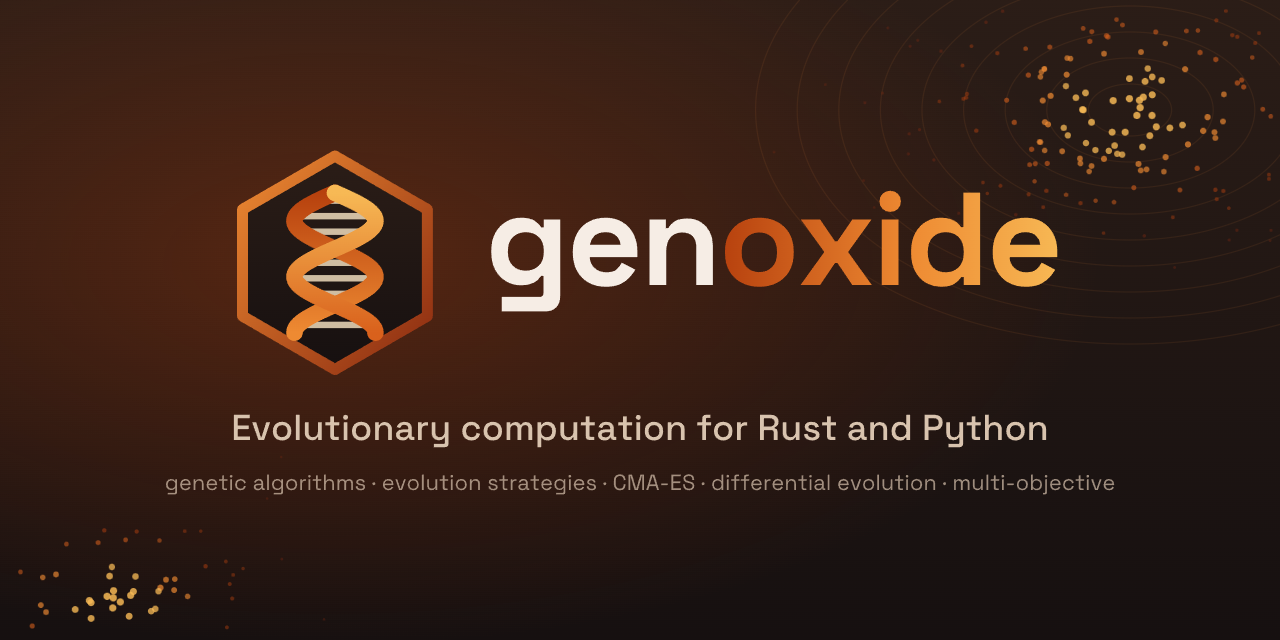
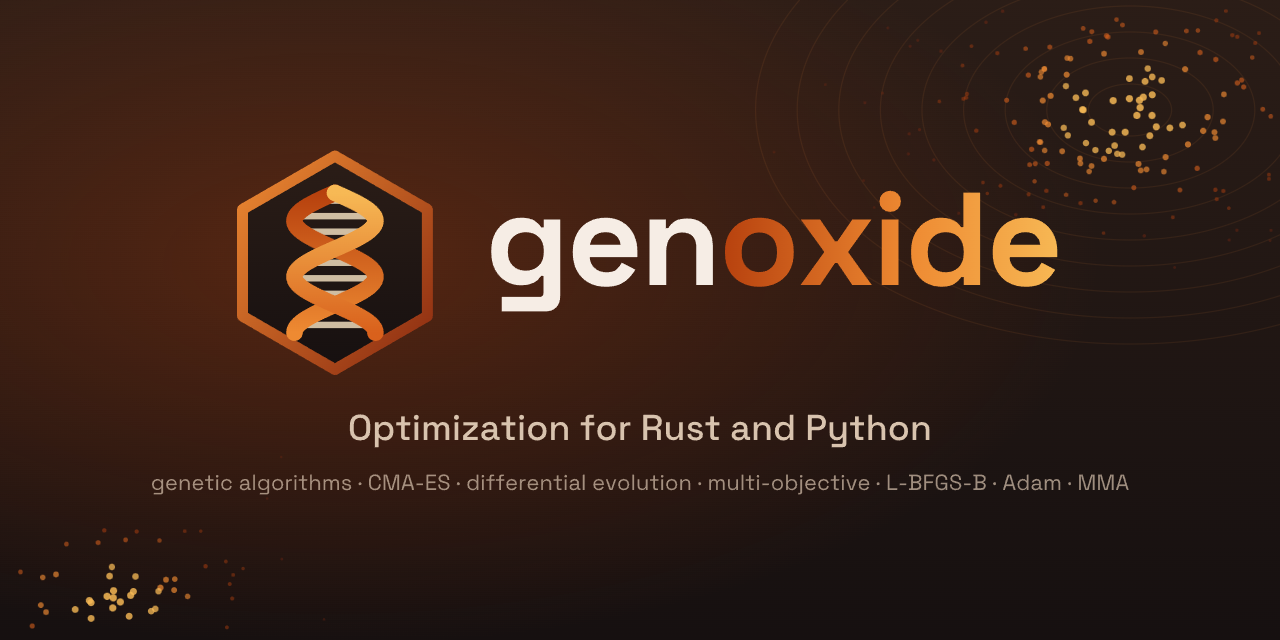
docs: describe genoxide as it is now, with a method table and an llms.txt for AI assistants (#407)
The first two phases of #406.

- **Descriptions:** the crates.io and PyPI descriptions, the README's
first sentence, the crate docs, the docs site's description, the banner
and the social preview said evolutionary computation only. They now name
the gradient-based methods (L-BFGS-B, Adam, MMA), genetic programming
and the reproducibility guarantee.
- **Keywords:**
- crates.io (5 allowed): `evolutionary`, which overlaps
`genetic-algorithm`, is replaced by `lbfgs`.
  - PyPI: 16 keywords, one per kind of method.
- **The crate docs on docs.rs** open with a table of which method for
which problem, and point to AGENTS.md.
- **llms.txt** (the llms.txt format): a summary, then links to
AGENTS.md, the API references, the CLI guide, the examples and the
benchmarks. It is served:
  - on the docs site, at `tachsin.github.io/genoxide/llms.txt`;
  - on tachsin.gr, at `/projects/genoxide/llms.txt`.
- **`/projects/genoxide/agents.md`** serves AGENTS.md at the pinned
commit as plain text, so the whole guide is one request.

The rest of #406 is separate work. That includes an `llms.txt` at
tachsin.gr's root, which belongs to the site's own repository.

Changed region(s): [[0.125, 0.7188, 0.875, 0.7812], [0.1562, 0.625, 0.8125, 0.6875]]

diff --git a/site/lib/projects/genoxide/llms.js b/site/lib/projects/genoxide/llms.js
@@ -1,0 +1,33 @@
+/**
+ * The text of /projects/genoxide/llms.txt (the llms.txt format,
+ * https://llmstxt.org). The docs site has the same file, docs/site/llms.txt.
+ */
+export const LLMS_TXT = `# genoxide
+
+> Optimization for Rust and Python, in one library: genetic algorithms, evolution strategies, CMA-ES, differential evolution, particle swarms, local search, Nelder-Mead, genetic programming, neuroevolution, multi-objective optimization (NSGA-II, NSGA-III, MOEA/D, SPEA2, SMS-EMOA) and gradient-based methods (L-BFGS-B, Adam and momentum, MMA and GCMMA). A seed gives the same results, to the bit, on every platform and thread count. Invalid settings are errors, not panics. Each method is checked against its source paper.
+
+Install: \`cargo add genoxide\` (Rust), \`pip install genoxide\` (Python), or \`cargo install genoxide --features cli\` for a program that runs an optimization described in TOML with any program as the fitness function. genoxide is pre-1.0: check the version and use the guide below, which matches the latest release.
+
+## Guide
+
+- [AGENTS.md](https://github.com/tachsin/genoxide/blob/main/AGENTS.md): the complete guide in one page, for people and AI coding assistants: which method for which problem, every setting and its valid range, a complete program for every method (each run in CI), and troubleshooting. Plain text: https://tachsin.gr/projects/genoxide/agents.md
+- [README](https://github.com/tachsin/genoxide/blob/main/README.md): overview and quick start
+
+## API reference
+
+- [Rust API on docs.rs](https://docs.rs/genoxide)
+- [Python API](https://tachsin.github.io/genoxide/api/python/)
+- [The genoxide program (CLI)](https://github.com/tachsin/genoxide/blob/main/docs/cli.md)
+
+## Examples and benchmarks
+
+- [Examples](https://tachsin.gr/projects/genoxide/examples): each with its explanation, Rust and Python code, output and a recorded run
+- [Benchmarks](https://tachsin.gr/projects/genoxide/benchmarks): genoxide against 16 libraries, the same algorithms on the same problems
+- [Docs site](https://tachsin.github.io/genoxide/)
+
+## Optional
+
+- [Roadmap](https://github.com/tachsin/genoxide/blob/main/ROADMAP.md)
+- [Changelog](https://github.com/tachsin/genoxide/blob/main/CHANGELOG.md)
+- [Source on GitHub](https://github.com/tachsin/genoxide)
+`;

diff --git a/site/lib/projects/genoxide/meta.js b/site/lib/projects/genoxide/meta.js
@@ -20,7 +20,7 @@ export const GENOXIDE_COMMIT = site.commit;
 export const GENOXIDE_PATH = "/projects/genoxide";
 export const GENOXIDE_OG_IMAGE = "/projects/genoxide/opengraph-image";
 
-export const GENOXIDE_TAGLINE = "Evolutionary computation for Rust and Python";
+export const GENOXIDE_TAGLINE = "Optimization for Rust and Python";
 
 export const GENOXIDE_DESCRIPTION =
   "genoxide is an evolutionary computation library for Rust, with a Python package: genetic algorithms, evolution strategies, CMA-ES, differential evolution, particle swarms, local search and multi-objective optimization in one library.";

diff --git a/site/app/projects/genoxide/agents.md/route.js b/site/app/projects/genoxide/agents.md/route.js
@@ -1,0 +1,13 @@
+import { getRepoFile } from "@/lib/projects/genoxide/github";
+
+/**
+ * /projects/genoxide/agents.md: AGENTS.md, the complete guide in one page, as
+ * plain text at the pinned commit, so an assistant can read it in one request.
+ */
+export async function GET() {
+  const text = await getRepoFile("AGENTS.md");
+  if (text == null) return new Response("AGENTS.md is not available\n", { status: 502 });
+  return new Response(text, {
+    headers: { "Content-Type": "text/markdown; charset=utf-8", "Cache-Control": "public, max-age=3600" },
+  });
+}

diff --git a/site/app/projects/genoxide/llms.txt/route.js b/site/app/projects/genoxide/llms.txt/route.js
@@ -1,0 +1,12 @@
+import { LLMS_TXT } from "@/lib/projects/genoxide/llms";
+
+/**
+ * /projects/genoxide/llms.txt: a map of genoxide for AI assistants, in the
+ * llms.txt format (https://llmstxt.org): a summary, then links to the guide,
+ * the API references, the examples and the benchmarks.
+ */
+export function GET() {
+  return new Response(LLMS_TXT, {
+    headers: { "Content-Type": "text/plain; charset=utf-8", "Cache-Control": "public, max-age=3600" },
+  });
+}

diff --git a/assets/brand/build.py b/assets/brand/build.py
@@ -207,7 +207,7 @@ def main():
     _, width = wordmark(p, PAPER, 112, 0, 0)
     left = (W - (200 + 28 + width)) / 2
     word, _ = wordmark(p, PAPER, 112, left + 228, 170)
-    tagline, _ = text_path("Evolutionary computation for Rust and Python", 500, 30, left + 232, 226)
+    tagline, _ = text_path("Optimization for Rust and Python", 500, 30, left + 232, 226)
     banner = (
         card(p, W, H, 28, left + 100, 160)
         + f'<g clip-path="url(#{p}-clip)">{contours(1190, 70, 8, 22, W, H)}{population(1190, 70, 48, 120, 7, W, H)}'
@@ -216,17 +216,17 @@ def main():
         + word
         + f'<path d="{tagline}" fill="{MUTED}"/>'
     )
-    write("banner.svg", svg(W, H, banner, "genoxide: evolutionary computation for Rust and Python"))
+    write("banner.svg", svg(W, H, banner, "genoxide: optimization for Rust and Python"))
 
     # the social preview, 2:1 (exported to PNG for GitHub)
     W, H, p = 1280, 640, "gx-social"
     _, width = wordmark(p, PAPER, 132, 0, 0)
     left = (W - (236 + 32 + width)) / 2
     word, _ = wordmark(p, PAPER, 132, left + 268, 285)
-    line = "Evolutionary computation for Rust and Python"
+    line = "Optimization for Rust and Python"
     _, tagline_width = text_path(line, 500, 36, 0, 0)
     tagline, _ = text_path(line, 500, 36, (W - tagline_width) / 2, 440)
-    line = "genetic algorithms · evolution strategies · CMA-ES · differential evolution · multi-objective"
+    line = "genetic algorithms · CMA-ES · differential evolution · multi-objective · L-BFGS-B · Adam · MMA"
     _, details_width = text_path(line, 400, 22, 0, 0)
     details, _ = text_path(line, 400, 22, (W - details_width) / 2, 490)
     social = (
@@ -238,7 +238,7 @@ def main():
         + f'<path d="{tagline}" fill="{MUTED}"/>'
         + f'<path d="{details}" fill="{MUTED}" opacity="0.7"/>'
     )
-    write("social-preview.svg", svg(W, H, social, "genoxide: evolutionary computation for Rust and Python"))
+    write("social-preview.svg", svg(W, H, social, "genoxide: optimization for Rust and Python"))
 
 
 if __name__ == "__main__":

diff --git a/src/lib.rs b/src/lib.rs
@@ -1,7 +1,21 @@
 //! # genoxide
 //!
-//! Evolutionary computation for Rust: genetic algorithms, evolution strategies, multi-objective
-//! optimization and more.
+//! Optimization for Rust (and Python): evolutionary, local, gradient-based and multi-objective
+//! methods in one library. A seed gives the same results, to the bit, on every platform and
+//! thread count, parallel or not.
+//!
+//! | Problem | Method |
+//! |---|---|
+//! | Yes / no choices, integers, orders (subsets, schedules, tours) | the genetic algorithm [`Ga`], [`LocalSearch`](algorithm::LocalSearch) |
+//! | Real numbers in a box, no gradient | [`Cmaes`](algorithm::Cmaes), [`De`](algorithm::De), [`Pso`](algorithm::Pso), [`Es`](algorithm::Es), [`NelderMead`](algorithm::NelderMead) |
+//! | Smooth functions with a gradient | [`Lbfgsb`](algorithm::Lbfgsb), and [`FirstOrder`](algorithm::FirstOrder) (Adam, momentum) for millions of variables |
+//! | Many variables, few inequality constraints, with gradients | [`Mma`](algorithm::Mma) (MMA and GCMMA) |
+//! | Several objectives at once | [`Nsga2`](multi::Nsga2), [`Nsga3`](multi::Nsga3), [`Moead`](multi::Moead), [`SmsEmoa`](multi::SmsEmoa) |
+//! | Programs and formulas | [`gp`]: tree genetic programming |
+//! | A neural network's weights | [`nn`] with [`Cmaes`](algorithm::Cmaes) |
+//!
+//! For AI coding assistants, [AGENTS.md](https://github.com/tachsin/genoxide/blob/main/AGENTS.md)
+//! is a complete guide in one page, with a program for every method, each run in CI.
 //!
 //! **Alpha, pre-1.0:** the API changes between 0.x versions. See the
 //! [roadmap](https://github.com/tachsin/genoxide/blob/main/ROADMAP.md) for what is planned.

diff --git a/README.md b/README.md
@@ -9,7 +9,7 @@
 [![License](https://img.shields.io/crates/l/genoxide.svg)](#license)
 [![Benchmarks](https://img.shields.io/badge/benchmarks-16_libraries-ce422b)](https://tachsin.gr/projects/genoxide/benchmarks)
 
-**Optimization for Rust: genetic algorithms, evolution strategies, differential evolution, particle swarms, local search and multi-objective optimization in one library.**
+**Optimization for Rust and Python: genetic algorithms, evolution strategies, CMA-ES, differential evolution, particle swarms, genetic programming, multi-objective optimization, local search and gradient-based methods (L-BFGS-B, Adam, MMA) in one library. A seed gives the same results, to the bit, on every platform and thread count.**
 
 ## Install
 

diff --git a/docs/site/index.md b/docs/site/index.md
@@ -1,6 +1,6 @@
 # genoxide
 
-![genoxide: evolutionary computation for Rust and Python](assets/brand/banner.svg)
+![genoxide: optimization for Rust and Python](assets/brand/banner.svg)
 
 genoxide is a library for evolutionary computation, written in Rust and available in Python.
 It has genetic algorithms, evolution strategies, CMA-ES, differential evolution, particle swarms,
